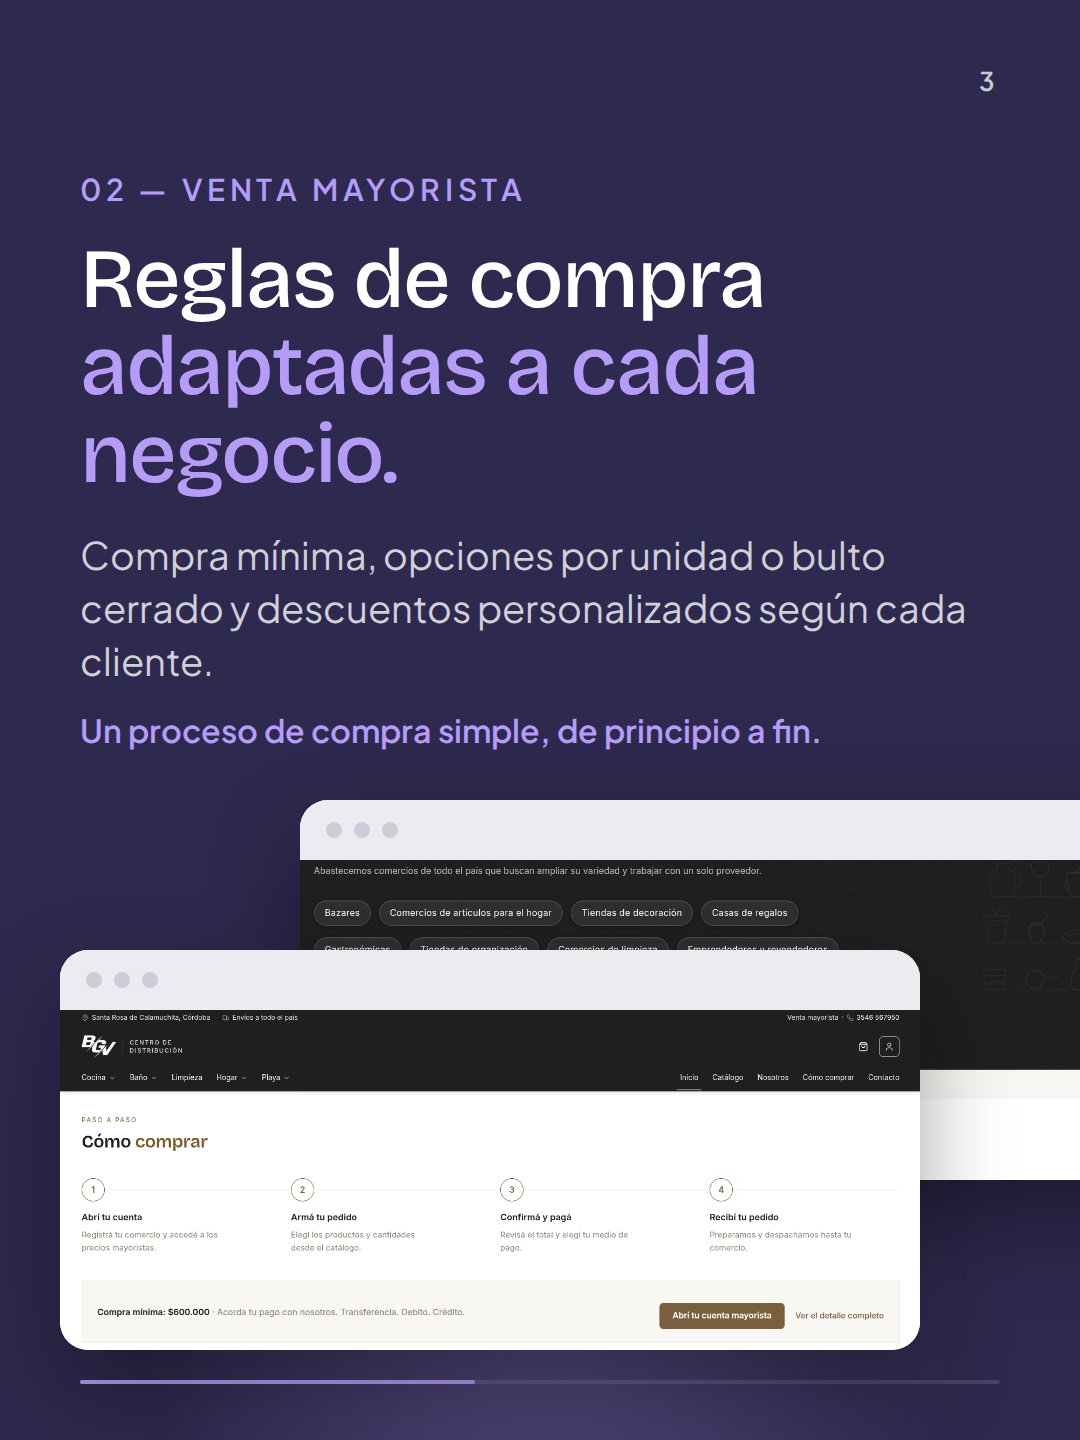
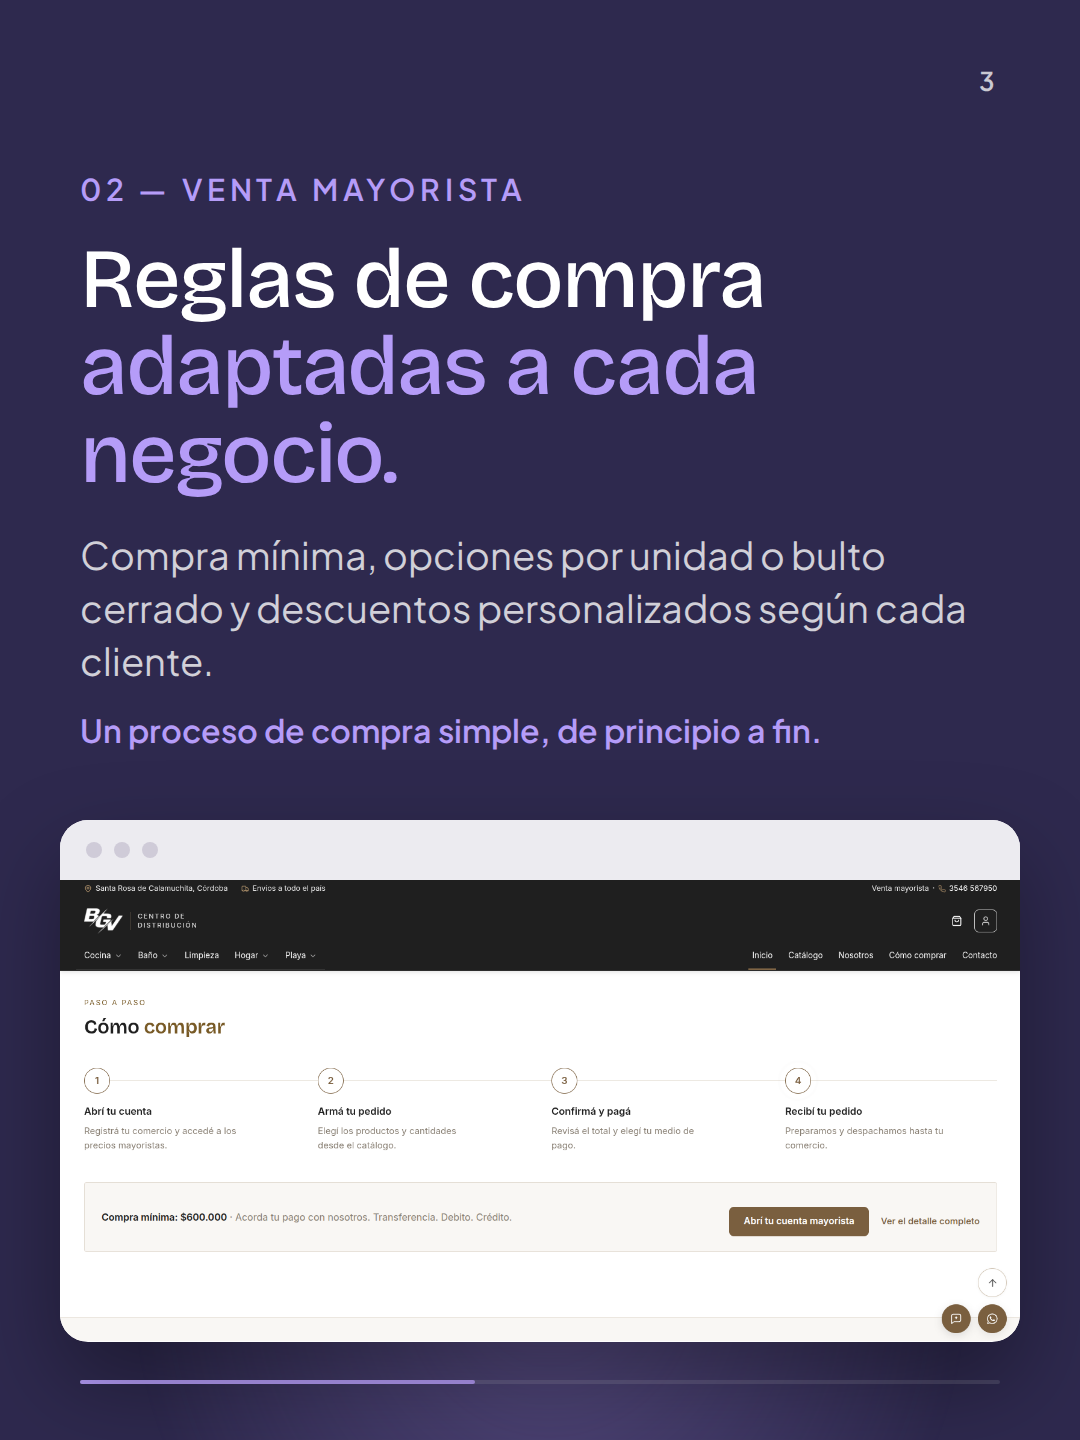
feat(instagram): BGV slide 03 solo con Cómo comprar, sin la pantalla de atrás

Changed region(s): [[0.0306, 0.5312, 1.0, 0.9375], [0.0611, 0.8438, 0.55, 0.875]]

diff --git a/instagram/carrusel-07-bgv/index.html b/instagram/carrusel-07-bgv/index.html
@@ -149,13 +149,9 @@
         <p class="note">Un proceso de compra simple, de principio a fin.</p>
       </div>
       <div class="glow" style="width:900px;height:900px;left:100px;bottom:-300px;background:radial-gradient(circle,rgba(181,156,248,0.3),transparent 65%)"></div>
-      <div class="browser" style="left:300px;top:800px;width:900px">
+      <div class="browser" style="left:60px;top:820px;width:960px">
         <div class="bar"><span></span><span></span><span></span></div>
-        <div class="crop" style="height:320px"><img src="media/d-conquien.png" alt="" style="left:0;top:-195px" /></div>
-      </div>
-      <div class="browser" style="left:60px;top:950px;width:860px;z-index:4">
-        <div class="bar"><span></span><span></span><span></span></div>
-        <div class="crop" style="height:340px"><img src="media/d-comocomprar-web.png" alt="" style="left:0;top:0" /></div>
+        <div class="crop" style="height:462px"><img src="media/d-comocomprar-web.png" alt="" style="left:0;top:0" /></div>
       </div>
       <div class="progress"><i style="width:42.9%"></i></div>
     </section>
